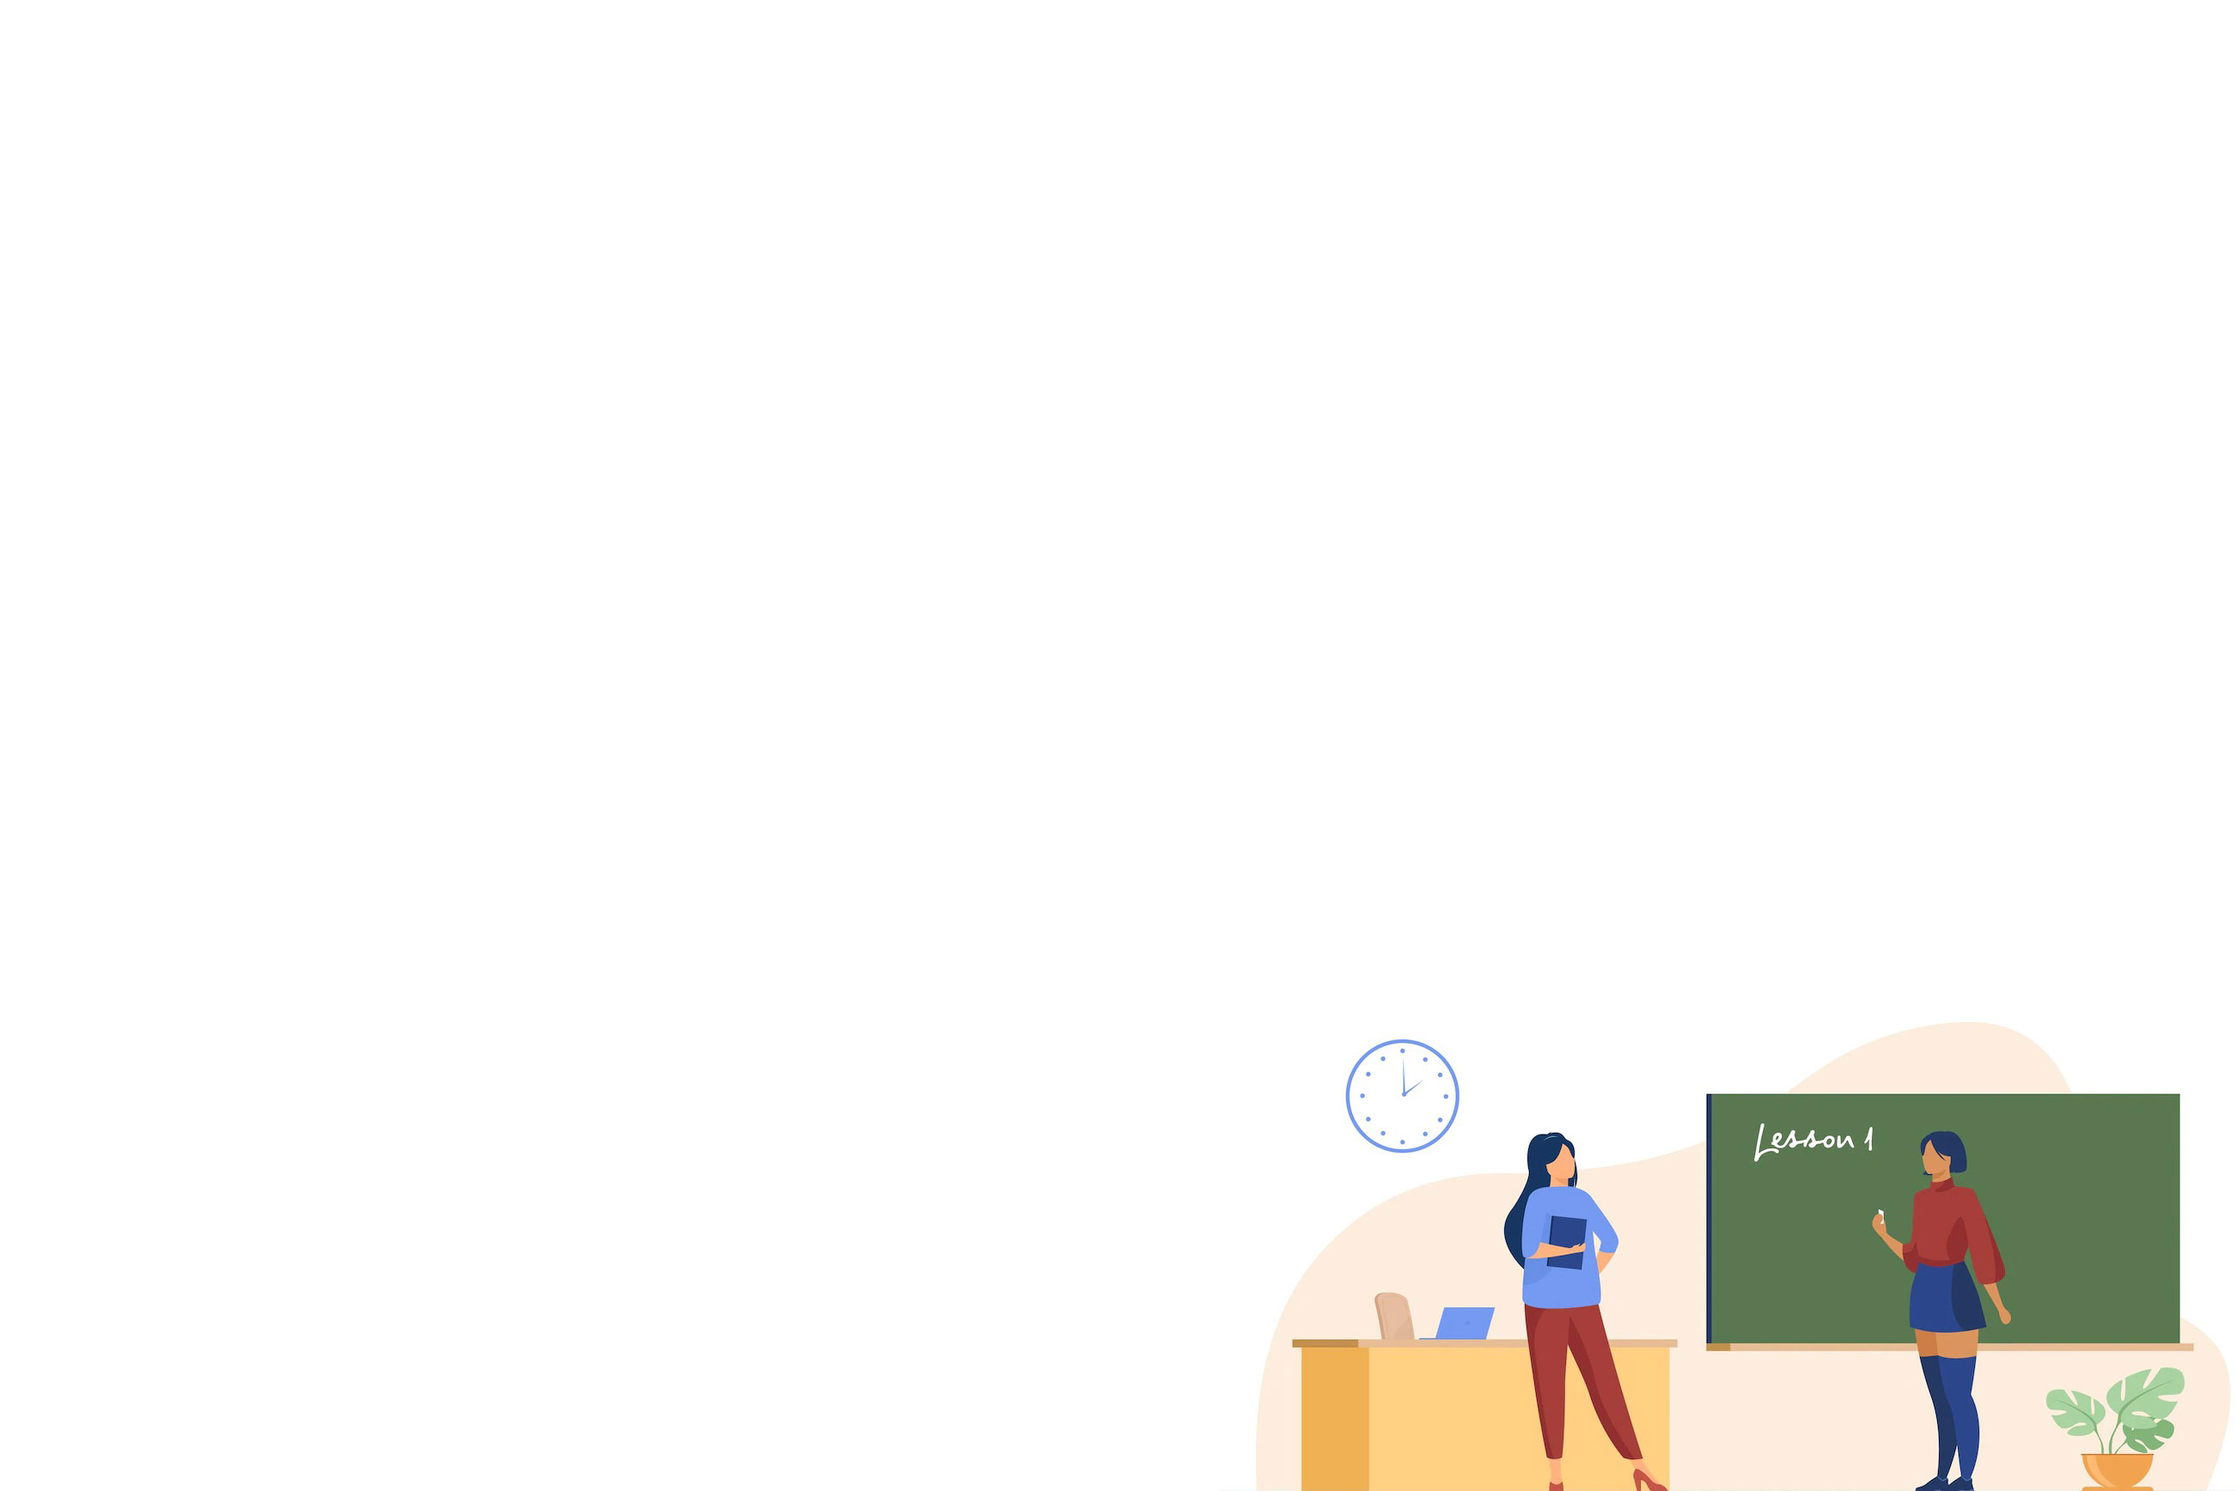
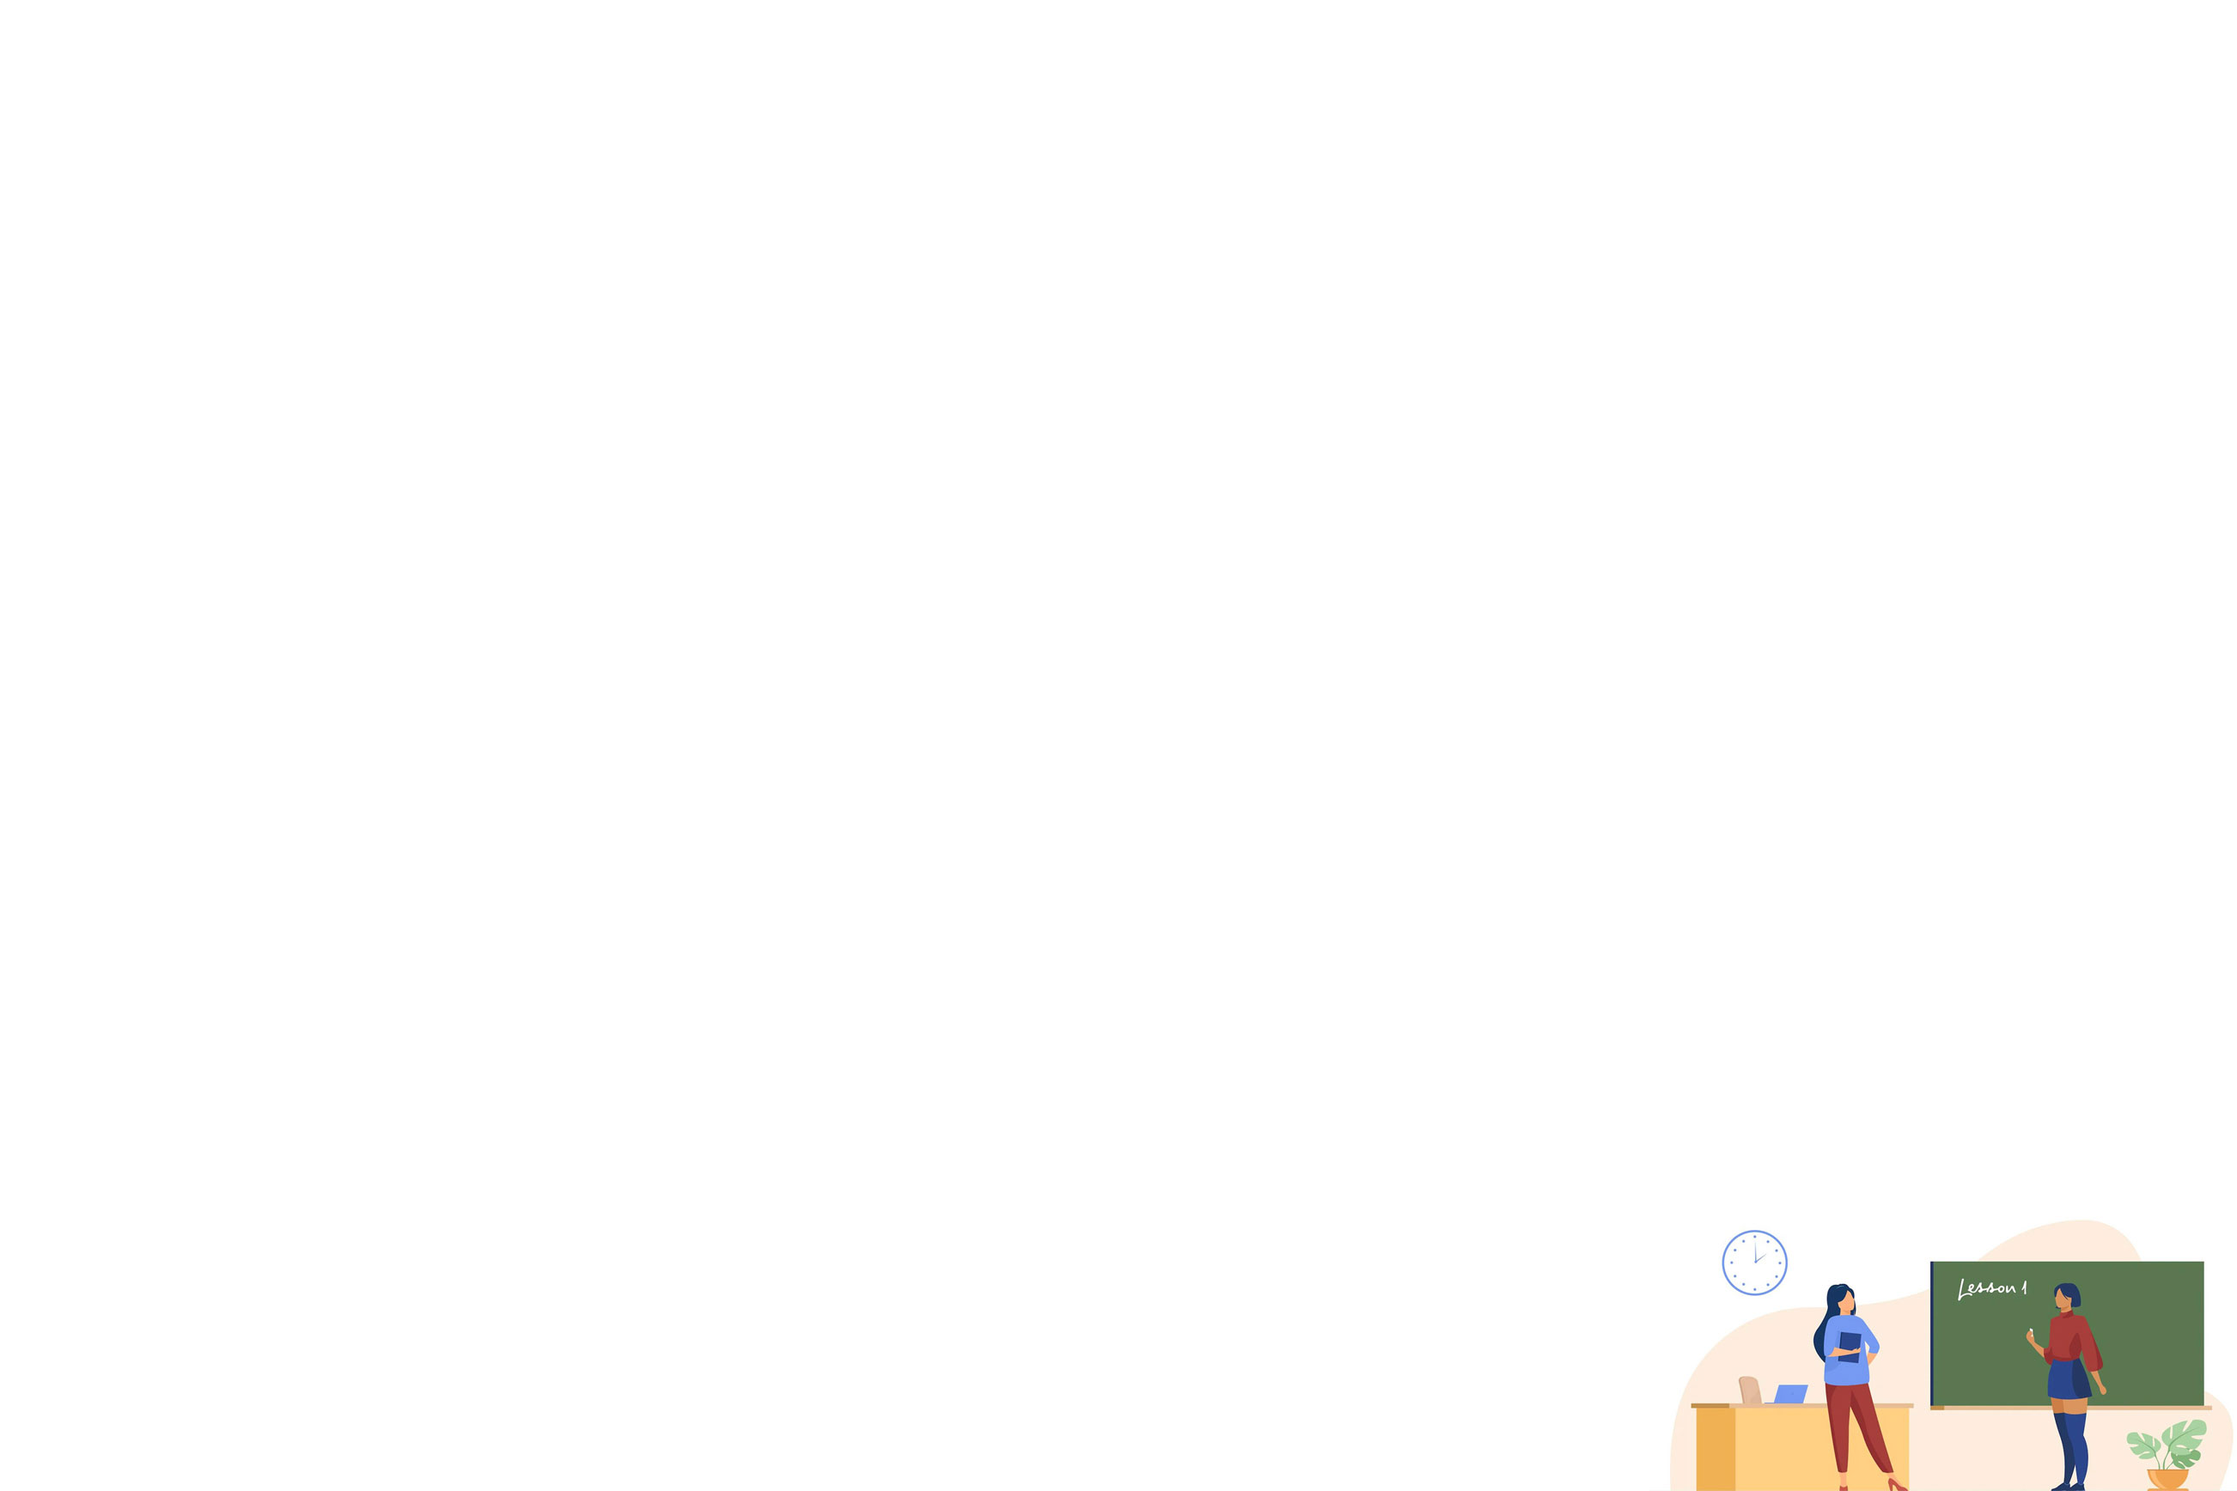
Update FrontEnd 2

Changed region(s): [[0.5599, 0.6843, 1.0, 1.0]]

diff --git a/index.html b/index.html
@@ -14,9 +14,9 @@
   </head>
   <body>
     <header>
-        <nav class="navbar fixed-top navbar-expand-md navbar-dark bg-dark mb-4">
+        <nav class="navbar fixed-top navbar-expand-md navbar-light bg-light mb-4">
         <div class="container-fluid">
-            <a class="navbar-brand" href="index.html">Deepcoders - Allocation Project</a>
+            <a class="navbar-brand" href="index.html"><img src="images/allocation-project-logo.png" alt="Allocation Project" title="Allocation Project"/></a>
             <button class="navbar-toggler" type="button" data-bs-toggle="collapse" data-bs-target="#navbarCollapse" aria-controls="navbarCollapse" aria-expanded="false" aria-label="Toggle navigation">
             <span class="navbar-toggler-icon"></span>
             </button>
@@ -41,11 +41,44 @@
     </header>
 
     <main class="container-fluid">
-    
+        <div class="mt-4">
+          <h1>Allocation Project</h1>
+          <p>
+            The Allocation Project helps schedule the right professor for the right course.
+          </p>
+          <div class="row mt-5">
+            <div class="col-6 col-lg-3 col-page">
+              <div class="circle-border zoom-in">
+                <a href="allocations/index.html" title="Allocations"><img class="img-circle" src="images/allocation-icon.jpg" alt="Allocations" title="Allocations" /></a>
+              </div>
+              <h6 class="d-flex justify-content-center"><a href="allocations/index.html" class="text-dark h3 mt-4 text-decoration-none">Allocations</a></h6>
+            </div>
+            <div class="col-6 col-lg-3 col-page">
+              <div class="circle-border zoom-in">
+                <a href="departments/index.html" title="Departments"><img class="img-circle" src="images/departments-icon.jpg" alt="Departments" title="Departments" /></a>
+              </div>
+              <h6 class="d-flex justify-content-center"><a href="departments/index.html" class="text-dark h3 mt-4 text-decoration-none">Departments</a></h6>
+            </div>
+            <div class="col-6 col-lg-3 col-page">
+              <div class="circle-border zoom-in">
+                <a href="courses/index.html" title="Courses"><img class="img-circle" src="images/courses-icon.jpg" alt="Courses" title="Courses" /></a>
+              </div>
+              <h6 class="d-flex justify-content-center"><a href="courses/index.html" class="text-dark h3 mt-4 text-decoration-none">Courses</a></h6>
+            </div>
+            <div class="col-6 col-lg-3 col-page">
+              <div class="circle-border zoom-in">
+                <a href="professors/index.html" title="Professors"><img class="img-circle" src="images/professors-icon.jpg" alt="Professors" title="Professors" /></a>
+              </div>
+              <h6 class="d-flex justify-content-center"><a href="professors/index.html" class="text-dark h3 mt-4 text-decoration-none">Professors</a></h6>
+            </div>
+          </div>
+        </div>
     </main>
 
     <footer>
-
+      <div class="p-5">
+        <p>Copyright &copy;2022 <img src="images/deepcoders-logo.jpg" width="200" alt="Deepcoders" title="Deepcoders" /></p>
+      </div>
 
     </footer>
 

diff --git a/style.css b/style.css
@@ -1,6 +1,6 @@
 @import url('https://fonts.googleapis.com/css2?family=Anton&family=Barlow+Condensed:ital,wght@0,100;0,200;0,300;0,400;0,500;0,600;0,700;0,800;0,900;1,100;1,200;1,300;1,400;1,500;1,600;1,700;1,800;1,900&display=swap');
 @import url("https://cdn.jsdelivr.net/npm/bootstrap-icons@1.9.1/font/bootstrap-icons.css");
-body{font-family: 'Barlow Condensed', sans-serif;min-height: 75rem; background: no-repeat bottom center fixed url('images/bg-teachers.jpg');-webkit-background-size: cover;-moz-background-size: cover;-o-background-size: cover;background-size:cover;}
+body{font-family: 'Barlow Condensed', sans-serif;min-height:75rem; background:no-repeat bottom right fixed url('images/bg-teachers.jpg');-webkit-background-size: cover;-moz-background-size: cover;-o-background-size: cover;background-size:cover;overflow: hidden;}
 h1,h2,h3,h4,h5,h6{font-family: 'Anton', sans-serif;}
 /*NAVBAR*/
 .bd-placeholder-img {font-size: 1.125rem;text-anchor: middle;-webkit-user-select: none;-moz-user-select: none;user-select: none;}
@@ -9,9 +9,21 @@ h1,h2,h3,h4,h5,h6{font-family: 'Anton', sans-serif;}
 .b-example-vr {flex-shrink: 0;width: 1.5rem;height: 100vh;}
 .bi {vertical-align: -.125em;fill: currentColor;}
 #deleteAllRows{padding: 10px;}
-main{background-color: white;}
-.navbar{border-bottom: 4px solid orange;}
-a.active{color: orange!important;}
+main{background-color: white;margin-top: 4rem!important;height:70vh;overflow-y:scroll;padding:1.5rem;text-align: center;}
+.navbar{border-bottom: 4px solid #f96236;}
+.navbar-brand img{max-width: 180px;}
+a.nav-link{font-size:140%;font-weight:500;}
+a.active{color: #f96236!important;}
+.nav-link:focus, .nav-link:hover {color: #f96236;}
 .nav-scroller{position:relative;z-index:2;height:2.75rem;overflow-y:hidden}
 .nav-scroller .nav{display:flex;flex-wrap:nowrap;padding-bottom:1rem;margin-top:-1px;overflow-x:auto;text-align:center;white-space:nowrap;-webkit-overflow-scrolling:touch}
 .btnDelete,.btnEdit{padding:5px;width:40px;margin-right:5px}
+footer{position:fixed;bottom:0;width: 100%;}
+.img-circle {width: 150px; height: 150px; -webkit-border-radius: 500px; -moz-border-radius: 500px; border-radius: 500px;}
+.circle-border {display: inline-block; -webkit-border-radius: 500px; -moz-border-radius: 500px; border-radius: 500px; -khtml-border-radius: 500px; border: 3px solid #fff;} 
+.zoom-in {-webkit-transform: scale(1, 1);-moz-transform: scale(1, 1);-o-transform: scale(1, 1);-ms-transform: scale(1, 1);-webkit-transition: all 250ms ease;-moz-transition: all 250ms ease;-o-transition: all 250ms ease;-ms-transition: all 250ms ease;transition: all 250ms ease;}
+.zoom-in:hover {-webkit-transform: scale(1.1, 1.1);-moz-transform: scale(1.1, 1.1);-o-transform: scale(1.1, 1.1);-ms-transform: scale(1.1, 1.1);}
+.col-page{min-width: 200px;}
+@media (max-width:767px){h1{font-size: 150%;}}
+@media (min-width:768px){main{padding: 3rem;}}
+@media (min-width:992px){main{height: 60vh;}}

diff --git a/professors/index.html b/professors/index.html
@@ -18,9 +18,9 @@
   </head>
   <body>
     <header>
-        <nav class="navbar fixed-top navbar-expand-md navbar-dark bg-dark mb-4">
+        <nav class="navbar fixed-top navbar-expand-md navbar-light bg-light mb-4">
         <div class="container-fluid">
-            <a class="navbar-brand" href="../index.html">Deepcoders - Allocation Project</a>
+            <a class="navbar-brand" href="../index.html"><img src="../images/allocation-project-logo.png" alt="Allocation Project" title="Allocation Project"/></a>
             <button class="navbar-toggler" type="button" data-bs-toggle="collapse" data-bs-target="#navbarCollapse" aria-controls="navbarCollapse" aria-expanded="false" aria-label="Toggle navigation">
             <span class="navbar-toggler-icon"></span>
             </button>
@@ -44,8 +44,11 @@
         </nav>
     </header>
 
-    <main class="container-fluid p-5 mt-5">
-        <h1>Professors</h1>
+    <main class="container-fluid p-5">
+        <div class="mt-4">
+            <h1>Allocation Project</h1>
+        </div>
+        <h2>Professors</h2>
         <div class="col-12 my-3">
             <p>Insert a new professor</p>
             <div id="insertProfessor" name="insertProfessor" class="input-group">
@@ -125,8 +128,9 @@
     </main>
 
     <footer>
-
-
+        <div class="p-5">
+            <p>Copyright &copy;2022 <img src="../images/deepcoders-logo.jpg" width="200" alt="Deepcoders" title="Deepcoders" /></p>
+          </div>
     </footer>
     <script src="https://cdnjs.cloudflare.com/ajax/libs/jquery/3.6.1/jquery.min.js" integrity="sha512-aVKKRRi/Q/YV+4mjoKBsE4x3H+BkegoM/em46NNlCqNTmUYADjBbeNefNxYV7giUp0VxICtqdrbqU7iVaeZNXA==" crossorigin="anonymous" referrerpolicy="no-referrer"></script>
     <script src="https://cdn.jsdelivr.net/npm/bootstrap@5.2.2/dist/js/bootstrap.bundle.min.js" integrity="sha384-OERcA2EqjJCMA+/3y+gxIOqMEjwtxJY7qPCqsdltbNJuaOe923+mo//f6V8Qbsw3" crossorigin="anonymous"></script>

diff --git a/allocations/index.html b/allocations/index.html
@@ -15,9 +15,9 @@
   </head>
   <body>
     <header>
-        <nav class="navbar fixed-top navbar-expand-md navbar-dark bg-dark mb-4">
+        <nav class="navbar fixed-top navbar-expand-md navbar-light bg-light mb-4">
         <div class="container-fluid">
-            <a class="navbar-brand" href="../index.html">Deepcoders - Allocation Project</a>
+            <a class="navbar-brand" href="../index.html"><img src="../images/allocation-project-logo.png" alt="Allocation Project" title="Allocation Project"/></a>
             <button class="navbar-toggler" type="button" data-bs-toggle="collapse" data-bs-target="#navbarCollapse" aria-controls="navbarCollapse" aria-expanded="false" aria-label="Toggle navigation">
             <span class="navbar-toggler-icon"></span>
             </button>
@@ -41,8 +41,11 @@
         </nav>
     </header>
 
-    <main class="container-fluid p-5 mt-5">
-        <h1>Allocations</h1>
+    <main class="container-fluid p-5">
+        <div class="mt-4">
+            <h1>Allocation Project</h1>
+        </div>
+        <h2>Allocations</h2>
         <div class="col-12 my-3">
             <p>Insert a new allocation
                 <br/>
@@ -143,8 +146,9 @@
     </main>
 
     <footer>
-
-
+        <div class="p-5">
+        <p>Copyright &copy;2022 <img src="../images/deepcoders-logo.jpg" width="200" alt="Deepcoders" title="Deepcoders" /></p>
+        </div>
     </footer>
     <script src="https://cdnjs.cloudflare.com/ajax/libs/jquery/3.6.1/jquery.min.js" integrity="sha512-aVKKRRi/Q/YV+4mjoKBsE4x3H+BkegoM/em46NNlCqNTmUYADjBbeNefNxYV7giUp0VxICtqdrbqU7iVaeZNXA==" crossorigin="anonymous" referrerpolicy="no-referrer"></script>
     <script src="https://cdn.jsdelivr.net/npm/bootstrap@5.2.2/dist/js/bootstrap.bundle.min.js" integrity="sha384-OERcA2EqjJCMA+/3y+gxIOqMEjwtxJY7qPCqsdltbNJuaOe923+mo//f6V8Qbsw3" crossorigin="anonymous"></script>

diff --git a/departments/index.html b/departments/index.html
@@ -18,9 +18,9 @@
   </head>
   <body>
     <header>
-        <nav class="navbar fixed-top navbar-expand-md navbar-dark bg-dark mb-4">
+        <nav class="navbar fixed-top navbar-expand-md navbar-light bg-light mb-4">
         <div class="container-fluid">
-            <a class="navbar-brand" href="../index.html">Deepcoders - Allocation Project</a>
+            <a class="navbar-brand" href="../index.html"><img src="../images/allocation-project-logo.png" alt="Allocation Project" title="Allocation Project"/></a>
             <button class="navbar-toggler" type="button" data-bs-toggle="collapse" data-bs-target="#navbarCollapse" aria-controls="navbarCollapse" aria-expanded="false" aria-label="Toggle navigation">
             <span class="navbar-toggler-icon"></span>
             </button>
@@ -44,8 +44,11 @@
         </nav>
     </header>
 
-    <main class="container-fluid p-5 mt-5">
-        <h1>Departments</h1>
+    <main class="container-fluid p-5">
+      <div class="mt-4">
+        <h1>Allocation Project</h1>
+      </div>
+        <h2>Departments</h2>
         <div class="col-12 my-3">
             <p>Insert a new department
                 <br/>
@@ -101,8 +104,9 @@
     </main>
 
     <footer>
-
-
+      <div class="p-5">
+        <p>Copyright &copy;2022 <img src="../images/deepcoders-logo.jpg" width="200" alt="Deepcoders" title="Deepcoders" /></p>
+      </div>
     </footer>
     <script src="https://cdnjs.cloudflare.com/ajax/libs/jquery/3.6.1/jquery.min.js" integrity="sha512-aVKKRRi/Q/YV+4mjoKBsE4x3H+BkegoM/em46NNlCqNTmUYADjBbeNefNxYV7giUp0VxICtqdrbqU7iVaeZNXA==" crossorigin="anonymous" referrerpolicy="no-referrer"></script>
     <script src="https://cdn.jsdelivr.net/npm/bootstrap@5.2.2/dist/js/bootstrap.bundle.min.js" integrity="sha384-OERcA2EqjJCMA+/3y+gxIOqMEjwtxJY7qPCqsdltbNJuaOe923+mo//f6V8Qbsw3" crossorigin="anonymous"></script>

diff --git a/courses/index.html b/courses/index.html
@@ -17,9 +17,9 @@
   </head>
   <body>
     <header>
-        <nav class="navbar fixed-top navbar-expand-md navbar-dark bg-dark mb-4">
+        <nav class="navbar fixed-top navbar-expand-md navbar-light bg-light mb-4">
         <div class="container-fluid">
-            <a class="navbar-brand" href="../index.html">Deepcoders - Allocation Project</a>
+            <a class="navbar-brand" href="../index.html"><img src="../images/allocation-project-logo.png" alt="Allocation Project" title="Allocation Project"/></a>
             <button class="navbar-toggler" type="button" data-bs-toggle="collapse" data-bs-target="#navbarCollapse" aria-controls="navbarCollapse" aria-expanded="false" aria-label="Toggle navigation">
             <span class="navbar-toggler-icon"></span>
             </button>
@@ -43,8 +43,11 @@
         </nav>
     </header>
 
-    <main class="container-fluid p-5 mt-5">
-        <h1>Courses</h1>
+    <main class="container-fluid p-5">
+      <div class="mt-4">
+        <h1>Allocation Project</h1>
+      </div>
+        <h2>Courses</h2>
         <div class="col-12 my-3">
             <p>Insert a new course
                 <br/>
@@ -100,8 +103,9 @@
     </main>
 
     <footer>
-
-
+      <div class="p-5">
+        <p>Copyright &copy;2022 <img src="../images/deepcoders-logo.jpg" width="200" alt="Deepcoders" title="Deepcoders" /></p>
+      </div>
     </footer>
     <script src="https://cdnjs.cloudflare.com/ajax/libs/jquery/3.6.1/jquery.min.js" integrity="sha512-aVKKRRi/Q/YV+4mjoKBsE4x3H+BkegoM/em46NNlCqNTmUYADjBbeNefNxYV7giUp0VxICtqdrbqU7iVaeZNXA==" crossorigin="anonymous" referrerpolicy="no-referrer"></script>
     <script src="https://cdn.jsdelivr.net/npm/bootstrap@5.2.2/dist/js/bootstrap.bundle.min.js" integrity="sha384-OERcA2EqjJCMA+/3y+gxIOqMEjwtxJY7qPCqsdltbNJuaOe923+mo//f6V8Qbsw3" crossorigin="anonymous"></script>

diff --git a/courses/courses.js b/courses/courses.js
@@ -7,7 +7,7 @@ const divDeleteAllRows = document.getElementById("deleteAllRows");
 let courseName = "";
 
 btnAddCourse.addEventListener('click',()=>addNewCourse());
-btnAddCourse.addEventListener("submit", (event) => {event.preventDefault();})
+//btnAddCourse.addEventListener("submit", (event) => {event.preventDefault();})
 
 async function getCourses(){
     const response = await fetch(coursesURL);
